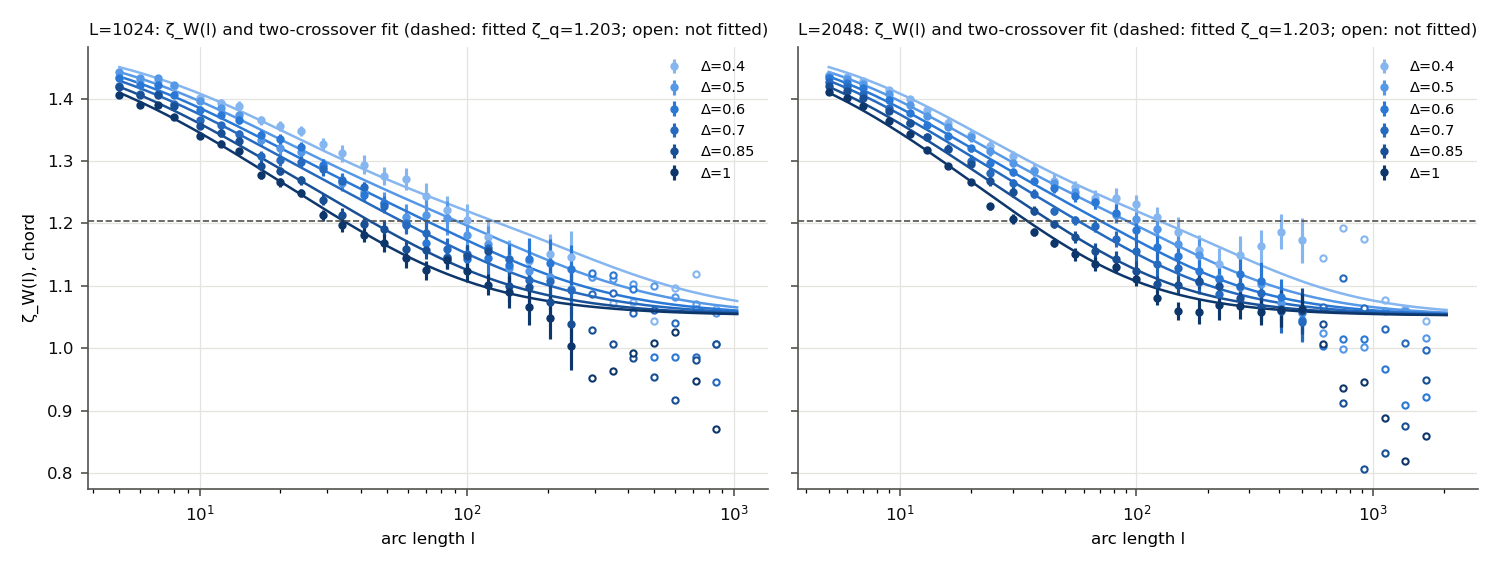
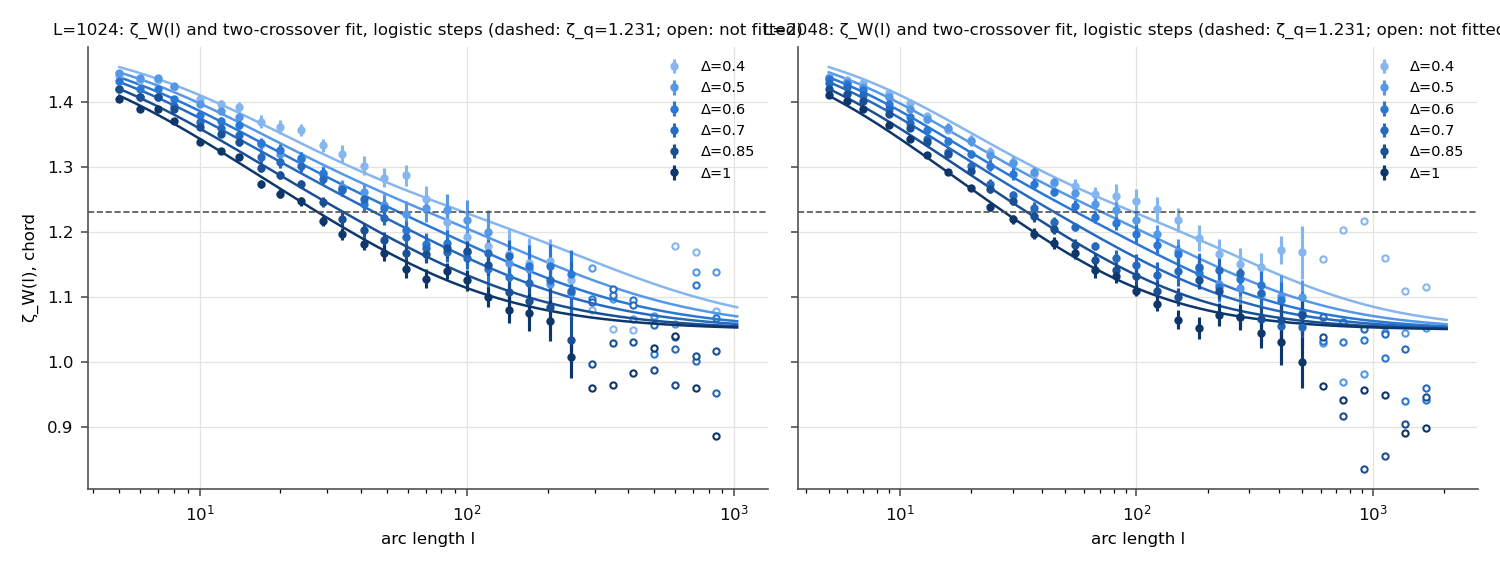
Replace the L=1024/2048 results with the rerun from the current solver
The figures and the numbers in the math document now come from
data/sweep_v2. l_o, alpha and x_c are unchanged within errors; zeta_q
rises by about 0.03, to 1.23-1.24 with x_c and alpha fixed, and to
1.24-1.25 with zeta_L free.

Claude-Session: https://claude.ai/code/session_01E8rMUiqjtYaaRXXjDRKoYH

diff --git a/docs/analysis_math.md b/docs/analysis_math.md
@@ -476,10 +476,10 @@ saturated, and to see a plateau $D$ decades wide,
 \log_{10}\frac{l_o}{L_c} \gtrsim 0.95\,(w_1 + w_2) + D .
 ```
 
-From the fit, $l_o/L_c = (b/a)\,\Delta^{-(\alpha - x_c)} \approx 4\,\Delta^{-1.43}$.
-That is ≈ 4 at $\Delta=1$ and ≈ 15 at $\Delta=0.4$, whereas merely
-reaching $\zeta_q$ needs $\gtrsim 25$, and a one-decade plateau
-$\gtrsim 250$ ($\Delta\approx0.055$).
+From the fit, $l_o/L_c = (b/a)\,\Delta^{-(\alpha - x_c)} \approx 5\,\Delta^{-1.43}$.
+That is ≈ 5 at $\Delta=1$ and ≈ 19 at $\Delta=0.4$, whereas merely
+reaching $\zeta_q$ needs $\gtrsim 30$ ($\Delta\approx0.28$), and a
+one-decade plateau $\gtrsim 300$ ($\Delta\approx0.057$).
 
 ### 6.4 Fit
 
@@ -520,23 +520,35 @@ relative):
 
 | form | all free | $x_c = 2/3$ | $x_c = 2/3$, $\alpha = 2.1$ | $\chi^2/\text{dof}$ |
 |---|---|---|---|---|
-| logistic | 1.18 ± 0.08 | 1.15 ± 0.04 | 1.203 ± 0.014 | 0.67–0.69 |
-| erf | 1.16 ± 0.08 | 1.15 ± 0.04 | 1.209 ± 0.014 | 0.67–0.69 |
-| asym | 1.14 ± 0.09 | 1.14 ± 0.08 | 1.214 ± 0.018 | 0.66 |
-| sum | 1.12 ± 0.01 | 1.07 ± 0.01 | 1.144 ± 0.015 | 0.80–1.02 |
+| logistic | 1.30 ± 0.06 | 1.20 ± 0.03 | 1.231 ± 0.011 | 0.73–0.79 |
+| erf | 1.27 ± 0.05 | 1.21 ± 0.03 | 1.235 ± 0.011 | 0.74–0.78 |
+| asym | 1.29 ± 0.06 | 1.25 ± 0.04 | 1.243 ± 0.012 | 0.72 |
+| sum | 1.11 ± 0.02 | 1.08 ± 0.01 | 1.170 ± 0.013 | 0.97–1.25 |
+
+With $\zeta_L$ free as well it fits to 1.45–1.47, and $\zeta_q$ becomes
+1.24–1.25 (± 0.01) with $x_c$ (and $\alpha$) fixed, and 1.30–1.32
+(± 0.06) with everything free.
 
 - **The free-width shapes agree.** At fixed variant, logistic, erf and
-  asym differ by $\lesssim0.04$ in $\zeta_q$, with the same $\chi^2$.
+  asym differ by $\lesssim0.05$ in $\zeta_q$, with the same $\chi^2$.
   The step shape is not the main systematic.
-- **Freeing $\alpha$ is.** With $\alpha$ free the fits push it to ≈ 3
-  ($\pm1$), above the $\approx2.1$ of the multivalued fraction, and
-  $\zeta_q$ drops to 1.14–1.18 with errors ≈ 0.04–0.09.
+- **What is held fixed is.** With $x_c$ and $\alpha$ fixed $\zeta_q$ =
+  1.23–1.24. Freeing $x_c$ moves it to 1.27–1.30, with $x_c\to0$–0.3,
+  far from the Larkin 2/3; freeing only $\alpha$, to 1.20–1.25, with
+  $\alpha$ = 2.0–2.7 ± 0.7–0.9, compatible with 2.1.
 - **`sum` is disfavoured.** It has a higher $\chi^2$, and to follow the
   data it pushes parameters to unphysical values: $\alpha$ at its bound
-  (6), $x_c\to0$, and $L_c > l_o$. The data need crossovers sharper than
-  independent additive contributions give.
-- **No shape gives $\zeta_q = 1.25$.** With free width, $\zeta_q$ ranges
-  from 1.14 to 1.21 over shapes and variants.
+  (6) and $x_c\to0$. The data need crossovers sharper than independent
+  additive contributions give.
+- **$\zeta_q = 1.25$ is within reach.** With free width, $\zeta_q$ ranges
+  from 1.20 to 1.30 over shapes and variants. The best-constrained fits
+  (fixed $x_c$, $\alpha$) sit 1–2σ below 1.25, and on it with free
+  $\zeta_L$.
+
+These numbers are from the current solver (`data/sweep_v2`). With the
+legacy critical configurations (§8) the same fits gave $\zeta_q$ ≈ 0.03
+lower (1.203–1.214 with $x_c$, $\alpha$ fixed; 1.14–1.21 overall): the
+unrelaxed walls biased it down.
 
 ## 7. Larkin scaling
 
@@ -580,32 +592,31 @@ $l_o$.
 
 ## 8. Results ($L=1024$ and $2048$; $\Delta=0.4$–$1.0$; 30 samples)
 
-> **Caveat.** These results come from the legacy solver, whose stopping
-> criterion (§2.2) left 13–43 % of the critical configurations still
-> moving. The $h_d$ agree with the current solver to within `tol`, but
-> the configurations, and hence everything from $l_o$ on, have to be
-> recomputed.
+From `data/sweep_v2` (current solver, §2.2–2.3). The legacy sweep
+(`data/sweep`) left 13–43 % of the critical configurations still moving:
+relaxing them at the same $h$ shifted the wall by up to ≈ 360 rows. Its
+$h_d$, $l_o$, $\alpha$ and $x_c$ agree with these within errors; its
+$\zeta_q$ was ≈ 0.03 lower.
 
 | quantity | result |
 |---|---|
-| $h_d$ | $\propto\Delta^{1.343\pm0.007}$ ($L=1024$), $\Delta^{1.342\pm0.005}$ ($L=2048$); values agree between $L$ to ≲ 0.8 % |
-| $l_o$ from $f_{\rm mv}$, chord ($L=2048$) | 513, 274, 237, 136, 106 for $\Delta$ = 0.5, 0.6, 0.7, 0.85, 1.0; independent of $L$ for $\Delta\ge0.7$ |
-| $\alpha$ ($L=2048$, $l_o\le L/4$) | $f_{\rm mv}$: 1.98 ± 0.15 (chord), 2.20 ± 0.23 (principal axis); collapses: 2.06 ± 0.12, 2.23 ± 0.14 |
-| Larkin collapse | $x_c = 0.65\pm0.06$ ($L=2048$), $0.83\pm0.09$ ($L=1024$); compatible with 2/3 |
-| two-crossover fit | free $\zeta_L$: 1.47–1.51; $\zeta_q = 1.203\pm0.014$ with $x_c$, $\alpha$ fixed; 1.14–1.21 over step shapes and variants (§6.5) |
-| $l_o$ from $\zeta_W$ or global $S$ | unreliable ($\alpha$ between −2.7 and 2.0): the 1.125 threshold falls where the two crossovers overlap |
+| $h_d$ | $\propto\Delta^{1.340\pm0.007}$ ($L=1024$), $\Delta^{1.339\pm0.005}$ ($L=2048$); values agree between $L$ to ≲ 0.8 % |
+| $l_o$ from $f_{\rm mv}$, chord ($L=2048$) | 504, 280, 233, 140, 102 for $\Delta$ = 0.5, 0.6, 0.7, 0.85, 1.0; independent of $L$ for $\Delta\ge0.7$ |
+| $\alpha$ ($L=2048$, $l_o\le L/4$) | $f_{\rm mv}$: 2.25 ± 0.17 (chord), 2.04 ± 0.17 (principal axis); collapses: 2.20 ± 0.43, 2.11 ± 0.11 |
+| Larkin collapse | $x_c = 0.62\pm0.05$ ($L=2048$), $0.88\pm0.11$ ($L=1024$); compatible with 2/3 |
+| two-crossover fit | free $\zeta_L$: 1.45–1.47; $\zeta_q = 1.231\pm0.011$ with $x_c$, $\alpha$ fixed; 1.20–1.30 over step shapes and variants; 1.24–1.25 with $\zeta_L$ free (§6.5) |
+| $l_o$ from $\zeta_W$ or global $S$ | unreliable ($\alpha$ between −3.3 and 1.7): the 1.125 threshold falls where the two crossovers overlap |
 
 **Reading.**
 
 - **Larkin, confirmed.** The ~1.45 at small scales is physical: it
   doesn't appear on synthetic $\zeta = 1.25$ profiles, it scales with
-  $\Delta^{-2/3}$, and the fit with free $\zeta_L$ gives 1.5.
-- **$\zeta_q$, below 1.25 but not conclusive.** The Larkin collapse
-  keeps working below 1.25, down to ≈ 1.2. Every crossover shape that
-  fits gives $\zeta_q$ = 1.14–1.21, never 1.25, and the shape changes it
-  by $\lesssim0.04$. The largest uncertainty is the degeneracy with
-  $\alpha$ (free $\alpha\approx3$ against 2.1 from $f_{\rm mv}$), and
-  all of it rests on extrapolating through a window where the plateau is
-  never reached.
-- **The qEW window is too narrow.** With $l_o/L_c\approx4$–15 it can't be
-  resolved; per §6.3, it would take a much smaller $\Delta$.
+  $\Delta^{-2/3}$, and the fit with free $\zeta_L$ gives 1.45–1.47.
+- **$\zeta_q$, compatible with 1.25.** The best-constrained fits give
+  1.23–1.24 ± 0.01, and 1.24–1.25 when $\zeta_L$ is also free. The step
+  shape changes it by $\lesssim0.05$. What remains open is how much it
+  depends on which of $x_c$ and $\alpha$ are fixed. All of it also rests
+  on extrapolating through a window where the plateau is never reached.
+- **The qEW window is too narrow.** With $l_o/L_c\approx5$–19 it can't be
+  resolved. Per §6.3, merely reaching $\zeta_q$ needs $\Delta\lesssim0.3$,
+  and a plateau needs a much smaller $\Delta$.
